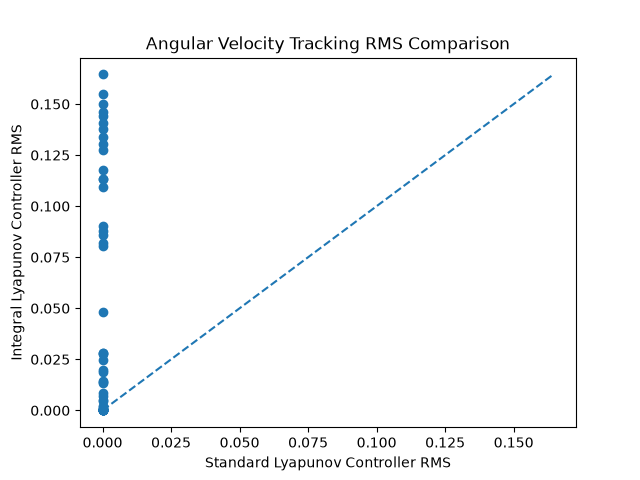
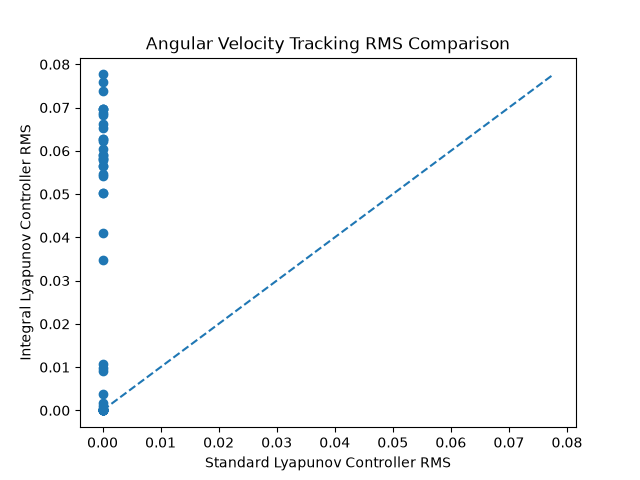
update

diff --git a/experiments/lyapunov_controller/monte_carlo_performance_comparison/monte_carlo_simulation.py b/experiments/lyapunov_controller/monte_carlo_performance_comparison/monte_carlo_simulation.py
@@ -64,8 +64,8 @@ state_provider = MRPStateProvider()
 
 def get_random_gains():
 
-    K = np.random.uniform(10.0, 50.0)
-    KI = 10 ** np.random.uniform(-2.0, 0.0)
+    K = np.random.uniform(5.0, 10.0)
+    KI = 10 ** np.random.uniform(-3.0, 0.0)
     P = make_spd_matrix(3)
 
     return K, KI, P
@@ -158,7 +158,7 @@ for trial in range(num_simulations):
 
         K, KI, _ = get_random_gains()
         P = 10 * np.eye(3)
-        
+
         standard_controller, standard_sol = simulate_standard_controller(K, P)
         integral_controller, integral_sol = simulate_integral_controller(K, P, KI)
 
